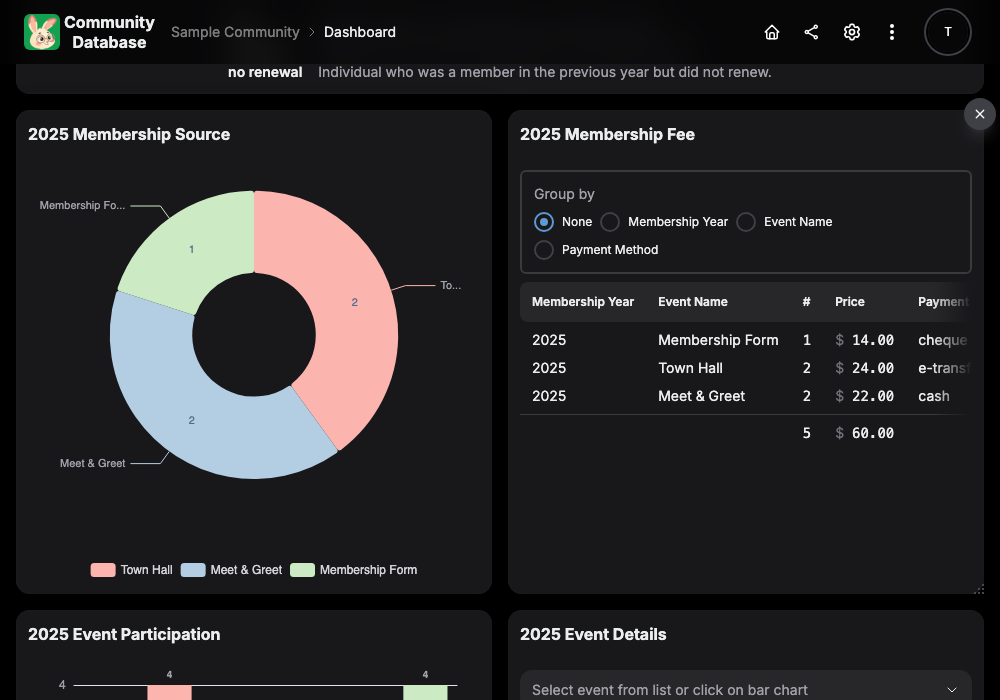
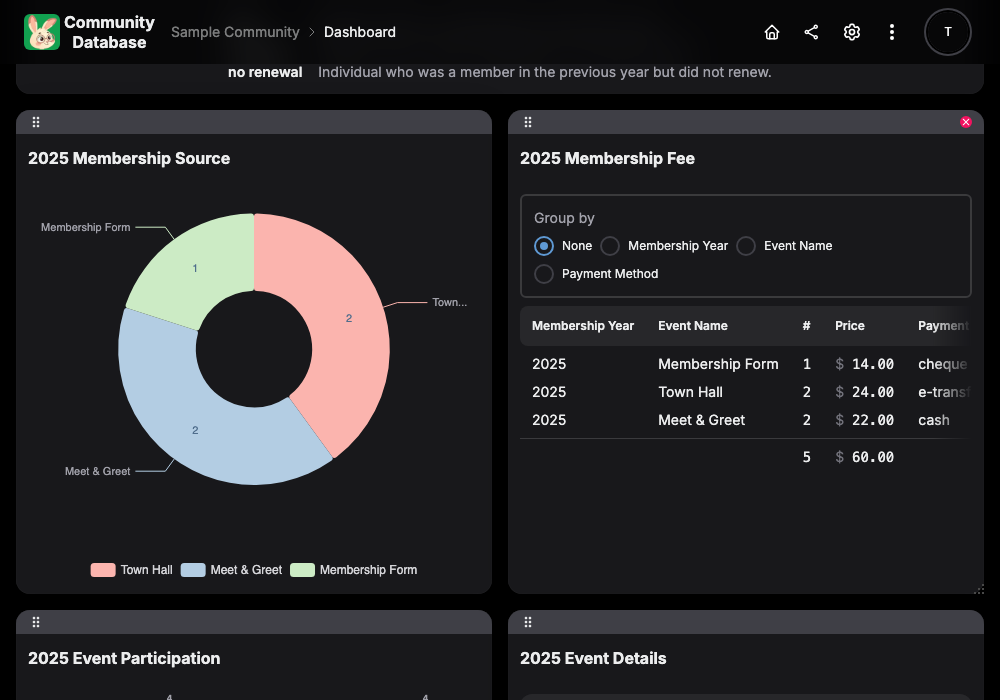
fix: Make mobile interface to dashboard widget more friendly Fixes #335

diff --git a/src/app/view/base/grid-stack-with-card/layout-manager-context.tsx b/src/app/view/base/grid-stack-with-card/layout-manager-context.tsx
@@ -118,27 +118,39 @@ export function LayoutManagerProvider<WidgetId extends string>({
   );
 
   /**
-   * Add a delete widget button on the top right of the card, when the card is
-   * hovered over
+   * Overlay a widget control bar on top of all cards
+   *
+   * - It serves as the widget drag bar
+   * - It houses the widget control (i.e remove button)
    */
   const renderItem: RenderItemFn<WidgetId> = React.useCallback(
     (gs, widget) => {
       return {
         children: (
-          <Button
+          <div
             className={cn(
-              'widget-control',
-              'absolute -top-1 -right-1',
-              'z-10 rounded-full',
-              'opacity-100'
+              'widget-control-bar drag-handle',
+              'cursor-grab active:cursor-grabbing',
+              'top-[8px] right-[8px] left-[8px]',
+              'rounded-t-large px-3',
+              'flex items-center',
+              'absolute z-10'
             )}
-            size="sm"
-            variant="shadow"
-            isIconOnly
-            onPress={() => removeWidget(widget.id)}
           >
-            <Icon icon="cross" size={16} />
-          </Button>
+            <Icon icon="drag-handle" />
+            <Button
+              className={cn(
+                'widget-hover-control',
+                'ml-auto',
+                'h-3 w-3 min-w-3'
+              )}
+              color="danger"
+              isIconOnly
+              onPress={() => removeWidget(widget.id)}
+            >
+              <Icon icon="cross" size={12} />
+            </Button>
+          </div>
         ),
       };
     },

diff --git a/src/app/view/base/grid-stack-with-card/styles.module.css b/src/app/view/base/grid-stack-with-card/styles.module.css
@@ -31,18 +31,25 @@
     /* Hide other widget control components when resizable handles are hidden */
     &:global(.ui-resizable-autohide),
     &:global(.ui-draggable-dragging) {
-      :global(.widget-control) {
+      :global(.widget-hover-control) {
         opacity: 0;
       }
     }
 
+    :global(.widget-control-bar) {
+      height: 24px;
+      background-color: hsl(var(--heroui-default));
+    }
+
     :global(.grid-stack-item-content) {
-      cursor: grab;
+      &> div  {
+        /* This needs to match the height of widget-control-bar */
+        padding-top: 24px;
+      }
     }
 
     &:global(.ui-draggable-dragging) {
       transform: rotate(1.5deg);
-      /* cursor: grabbing; */
     }
   }
 }

diff --git a/src/app/globals.css b/src/app/globals.css
@@ -71,14 +71,6 @@
 body {
   color: hsl(var(--heroui-foreground));
   background: hsl(var(--heroui-background));
-
-  /* This is additional styling added for GridStack.js.
-   * When user grabs a widget, we want the cursor to reflect the grabbing state
-   */
-  :has(.ui-draggable-dragging) {
-    cursor: grabbing;
-  }
-
 }
 
 /* Hide default google RECAPTCHA badge */

diff --git a/src/app/view/base/echart/theme/common.ts b/src/app/view/base/echart/theme/common.ts
@@ -41,7 +41,8 @@ export const commonTheme = {
      */
     const { labelRect, rect } = params;
     if (rect.width < labelRect.width || rect.height < labelRect.height) {
-      return { fontSize: 0 };
+      // On mobile device, fontSize: 0 doesn't work, so using x, to put the label out of bound
+      return { fontSize: 0, x: '100%' };
     }
   },
   /**

diff --git a/src/app/view/base/grid-stack-with-card/index.tsx b/src/app/view/base/grid-stack-with-card/index.tsx
@@ -64,6 +64,9 @@ export function GridStackWithCard<WidgetId extends string>({
             { w: 640, c: 1 }, // sm
           ],
         },
+        draggable: {
+          handle: '.drag-handle',
+        },
         ...options,
       }}
       onChange={customOnChange}
